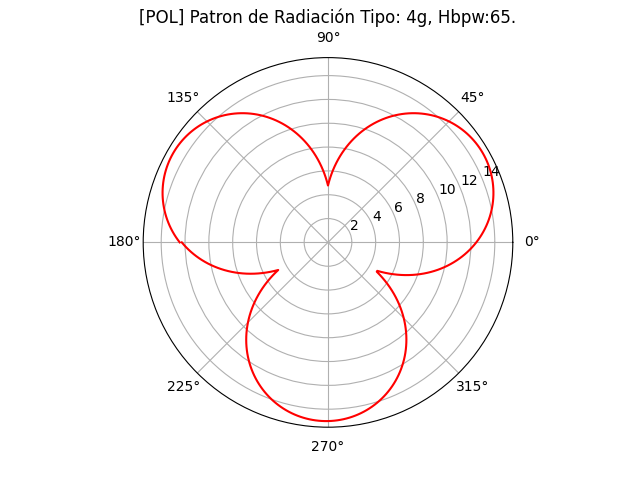
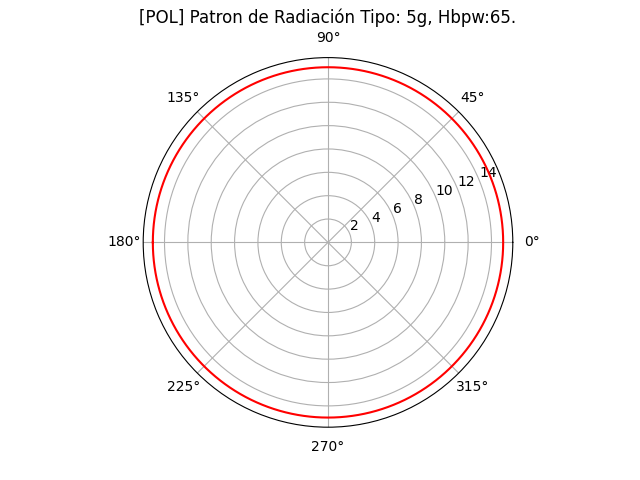
Imagenes Corregidas. Antena 5G añadida y corregida

diff --git a/produccion/sami_v1/simapp/templates/simapp/resultados/sami-sim-graficas-empty.html b/produccion/sami_v1/simapp/templates/simapp/resultados/sami-sim-graficas-empty.html
@@ -37,7 +37,7 @@ RESULTADOS DE SIMULACIÓN
             <div class="mb-5">
                 <a class="btn btn-primary" href="{% url 'simapp:sim_form_compacto' %}">Cambiar parámetros</a>
             </div>
-            <h1 class="error-text font-weight-bold">Iteraciones Insuficientes</h1>
+            <h1 class="error-text font-weight-bold">Realizaciones Insuficientes</h1>
             <h4 class="mt-4"><i class="fa fa-exclamation-triangle text-warning"></i> ¡No hay sufientes simulaciones!</h4>
             <p>Realiza 10 simulaciones o más para obtener gráficas.</p>
         </div>

diff --git a/produccion/sami_v1/simapp/static/simulador/simulador.py b/produccion/sami_v1/simapp/static/simulador/simulador.py
@@ -271,84 +271,49 @@ class Simulador:
 		#grafica de distribucion de usuarios
 		fig, ax = plt.subplots()
 		ax.plot(np.linspace(1,len(col_cobertura_usuarios),len(col_cobertura_usuarios)), col_cobertura_usuarios, 'b-o')
-		self.graficas_disponibles_dic=formatear_grafica_simple(ax, 'Usuarios, Proceso Puntual Poisson', 'Usuarios por Simulación', 
-			'Iteraciones', 'Número de Usuarios', 'pic_distribucion_simple', ruta_img_montecarlo, self.graficas_disponibles_dic)
+		self.graficas_disponibles_dic=formatear_grafica_simple(ax, 'Usuarios, Proceso Puntual Poisson', 'Usuarios por Celda', 
+			'Realizaciones', 'Número de Usuarios', 'pic_dist_users_all', ruta_img_montecarlo, self.graficas_disponibles_dic)
 
+		#grafica de distribucion de usuarios
+		fig, ax = plt.subplots()
+		ax.hist(col_cobertura_usuarios, 20)
+		self.graficas_disponibles_dic=formatear_grafica_simple(ax, 'Histograma de Usuarios', 'Usuarios por Celda', 
+			'Usuarios', 'Ocurrencia', 'pic_dist_users_hist', ruta_img_montecarlo, self.graficas_disponibles_dic)
+		
 
-		plt.figure()
-		plt.title("Distribución de Usuarios")
-		#data,bins=np.histogram(col_cobertura_usuarios)
-		#plt.stem(bins[:-1],data, use_line_collection=True)
-		plt.hist(col_cobertura_usuarios, 20)
-		#plt.savefig("/Users/atru/abc.png")
-		nombre="n_ue_distribucion"
-		titulo="Histograma Distribución de Usuarios"
-		plt.ylabel("Frecuencia de Iteraciones")
-		plt.xlabel("Rango de Usuarios")
-		plt.grid(True)
-		#ruta_img="simulador/base_datos/imagenes/montecarlo/mc-n_ue_total.png"
-		ruta=ruta_img_montecarlo+nombre+".png"
-		plt.savefig("simapp/static/"+ruta)
-		self.graficas_disponibles_dic.update({titulo.upper():ruta})
-
-		#grafica porcentaje de conexion
-		plt.figure()
-		'''
-		plt.title("usuarios conectados")
-		#plt.hist(col_cob_conexion, density=False, cumulative=False)
+		#grafica de distribucion de usuarios
+		fig, ax = plt.subplots()
 		data,bins=np.histogram(col_cob_conexion)
-		print(bins,data)
-		plt.stem(bins[:-1],data, use_line_collection=True)
-		'''
-		data,bins=np.histogram(col_cob_conexion)
-		plt.title("Histograma de Usuarios Conectados")
-		plt.stem(bins[:-1],data, use_line_collection=True)
-		#save
-		nombre="usuarios-on"
-		titulo="Histograma Usuarios Conectados"
-		plt.ylabel("Frecuencia de Iteraciones")
-		plt.xlabel("Porcentaje de Conexión (normalizado)")
-		plt.grid(True)
-		#ruta_img="simulador/base_datos/imagenes/montecarlo/mc-n_ue_on.png"
-		ruta=ruta_img_montecarlo+nombre+".png"
-		plt.savefig("simapp/static/"+ruta)
-		self.graficas_disponibles_dic.update({titulo.upper():ruta})
-
+		ax.stem(bins[:-1],data, use_line_collection=True)
+		self.graficas_disponibles_dic=formatear_grafica_simple(ax, 'Histograma de Usuarios Conectados', 'Usuarios: Pr-Sens>0', 
+			'Porcentaje de Conexión (Normalizado)', 'Ocurrencia', 'pic_on_users_hist', ruta_img_montecarlo, self.graficas_disponibles_dic)
+		
+		
 		
 		#grafica conexion sinr
-		plt.figure()
+		#sinr > target
 		ber_sinr=self.configuracion["cfg_simulador"]["params_general"]["ber_sinr"]
-		plt.title("SINR por encima de {} dBs".format(ber_sinr))
-		plt.hist(col_cob_conexion_sinr,density=True, cumulative=True)
-		#save
-		print(col_cob_conexion_sinr, type(col_cob_conexion_sinr), len(col_cob_conexion_sinr))
-		#save
-		nombre="sys_sinr"
-		titulo="PMF SINR > X, normalizado"
-		plt.ylabel("Porcentaje CDF")
-		plt.xlabel("Porcentaje de conexión SINR")
-		plt.grid(True)
-		ruta=ruta_img_montecarlo+nombre+".png"
-		plt.savefig("simapp/static/"+ruta)
-		#ruta_img="simulador/base_datos/imagenes/montecarlo/mc-ue_sinr.png"
-		self.graficas_disponibles_dic.update({titulo.upper():ruta})
+		fig, ax = plt.subplots()
+		ax.hist(col_cob_conexion_sinr, cumulative=True)
+		self.graficas_disponibles_dic=formatear_grafica_simple(ax, 'Histograma SINR > x dBs', "SINR mayor a {} dBs".format(ber_sinr), 
+			'Porcentaje Acomulativo', 'Ocurrencia', 'pic_sys_sinr_hist', ruta_img_montecarlo, self.graficas_disponibles_dic)
 
 		#grafica de tp
 		fig, ax = plt.subplots()
 		ax.hist(col_tp_mean)
-		self.graficas_disponibles_dic=formatear_grafica_simple(ax, 'Promedio de Througput', 'Simulación Througput', 
-			'Throughput', 'Iteraciones', 'pic_tp_sistema', ruta_img_montecarlo, self.graficas_disponibles_dic)
+		self.graficas_disponibles_dic=formatear_grafica_simple(ax, 'Promedio de Throughput', 'Histograma Throughput', 
+			'Throughput', 'Ocurrencia', 'pic_sys_tp_hist', ruta_img_montecarlo, self.graficas_disponibles_dic)
 		#grafica de tp comulativa
 		fig, ax = plt.subplots()
-		ax.hist(col_tp_mean, 20, density=True, cumulative=True)
-		self.graficas_disponibles_dic=formatear_grafica_simple(ax, 'PMF Througput', 'Simulación Througput', 
-			'Throughput', 'Iteraciones', 'pic_pmf_tp_sistema', ruta_img_montecarlo, self.graficas_disponibles_dic)
+		ax.hist(col_tp_mean, 20, cumulative=True)
+		self.graficas_disponibles_dic=formatear_grafica_simple(ax, 'Promedio de Throughput Acumulado', 'Throughput Acumulado', 
+			'Throughput', 'Ocurrencia', 'pic_sys_tp_cumsum', ruta_img_montecarlo, self.graficas_disponibles_dic)
 		
 		#grafica de tp montecarlo
 		fig, ax = plt.subplots()
 		ax.plot(np.arange(1,len(col_tp_mean)+1),np.cumsum(col_tp_mean)/np.arange(1,len(col_tp_mean)+1))
-		self.graficas_disponibles_dic=formatear_grafica_simple(ax, 'Montecarlo Througput', 'Simulación Througput', 
-			'Iteraciones', 'Tendencia Throughput', 'pic_mc_tp_sistema', ruta_img_montecarlo, self.graficas_disponibles_dic)
+		self.graficas_disponibles_dic=formatear_grafica_simple(ax, 'Throughput Montecarlo', 'Simulación Throughput', 
+			'Realizaciones', 'Tendencia Throughput', 'pic_mc_tp_sistema', ruta_img_montecarlo, self.graficas_disponibles_dic)
 		
 
 		#GUARDAR DATOS

diff --git a/produccion/sami_v1/simapp/forms.py b/produccion/sami_v1/simapp/forms.py
@@ -65,7 +65,7 @@ desvancimiento_choices=(
 #----------------------------------------------
 antena_choices=(
         ('4g', '38942 Trisectorizada'),
-        ('5g', 'Futuro*'),
+        ('5g', 'Mimo Masivo'),
         ('futuro', 'Futuro**'), 
     )
 
@@ -89,9 +89,9 @@ bw_choices=(
 #end
 class FormGeneral(forms.Form):
     '''Formulario inicial. Configura parametros globales'''
-    iteraciones=forms.IntegerField(label='Iteraciones',initial=1, min_value=1)
+    iteraciones=forms.IntegerField(label='Realizaciones',initial=1, min_value=1)
     n_celdas=forms.IntegerField(label='Cantidad de Celdas',initial=1, max_value=19, min_value=1)
-    portadora=forms.IntegerField(label='Frecuencia Portadora [MHz, GHz]',initial=900, min_value=200, max_value=75000,)
+    portadora=forms.IntegerField(label='Frecuencia Portadora [MHz]',initial=900, min_value=200, max_value=75000,)
     isd=forms.IntegerField(label='Distancia entre Celdas (ISD)[m]',initial=1000, min_value=10)
     geometria_usuarios=forms.ChoiceField(label='Distribución de Usuarios',choices=geometria_choices)
     radio_cel=forms.IntegerField(label='Radio de la Celda [m]', initial=1000, min_value=5)
@@ -159,9 +159,9 @@ class FormAsignacion(forms.Form):
     
 class FormCompacto(forms.Form):
     '''Formulario inicial. Configura parametros globales'''
-    iteraciones=forms.IntegerField(label='Iteraciones',initial=1, min_value=1)
+    iteraciones=forms.IntegerField(label='Realizaciones',initial=1, min_value=1)
     n_celdas=forms.IntegerField(label='Cantidad de Celdas',initial=1, max_value=19, min_value=1)
-    portadora=forms.IntegerField(label='Frecuencia Portadora [MHz, GHz]',initial=900, min_value=200, max_value=75000,)
+    portadora=forms.IntegerField(label='Frecuencia Portadora [MHz]',initial=900, min_value=200, max_value=75000,)
     isd=forms.IntegerField(label='Distancia entre Celdas [m]',initial=1000, min_value=10)
     geometria_usuarios=forms.ChoiceField(label='Distribución de Usuarios',choices=geometria_choices)
     radio_cel=forms.IntegerField(label='Radio de la Celda [m]', initial=1000, min_value=5)

diff --git a/produccion/sami_v1/simapp/static/simulador/pk_red_dispositivos/antenas.py b/produccion/sami_v1/simapp/static/simulador/pk_red_dispositivos/antenas.py
@@ -69,15 +69,15 @@ class Antena:
 		#inicializar
 		if self.cfg["tipo"]=="4g":
 			self.inicializar_ts_38942()
-		elif self.cfg["tipo"]=="5G":
-			pass
+			#conforma los sectores, de acuerdo a la referencia previa donde se generan los lobulos.
+			self.conformar_sectores()
+			#interpola los resultados anteriores, con los angulos de entrada y se obtiene la ganancia relativa de todos los usuarios.
+			self.interpolar_resultados()
+		elif self.cfg["tipo"]=="5g":
+			self.inicializar_ts_5g()
 		else:
 			pass
-		#
-		#conforma los sectores, de acuerdo a la referencia previa donde se generan los lobulos.
-		self.conformar_sectores()
-		#interpola los resultados anteriores, con los angulos de entrada y se obtiene la ganancia relativa de todos los usuarios.
-		self.interpolar_resultados()
+		
 	#---------------------------------------------------------------------------
 	#---------------------------------------------------------------------------
 	#							OPERACIONES
@@ -95,6 +95,12 @@ class Antena:
 		sector_2=np.roll(self.cfg["atmin"]-1*np.minimum(self.relacion_angulos, self.cfg["atmin"]), self.cfg["params_ant"][0][1])
 		sector_3=np.roll(self.cfg["atmin"]-1*np.minimum(self.relacion_angulos, self.cfg["atmin"]), self.cfg["params_ant"][0][2])
 		self.patron_radiacion_3s=[sector_1,sector_2,sector_3]
+	
+	def inicializar_ts_5g(self):
+		'''Modela tipo de antena omnidireccional, emulando altisima directividad'''
+		self.hiper_ganancias=self.ganancia_tx+self.hiper_angulos*0
+		self.patron_radiacion=self.ganancia_tx+self.angulos*0
+		print(5555555555555555555, len(self.patron_radiacion))
 
 
 	def conformar_sectores(self):
